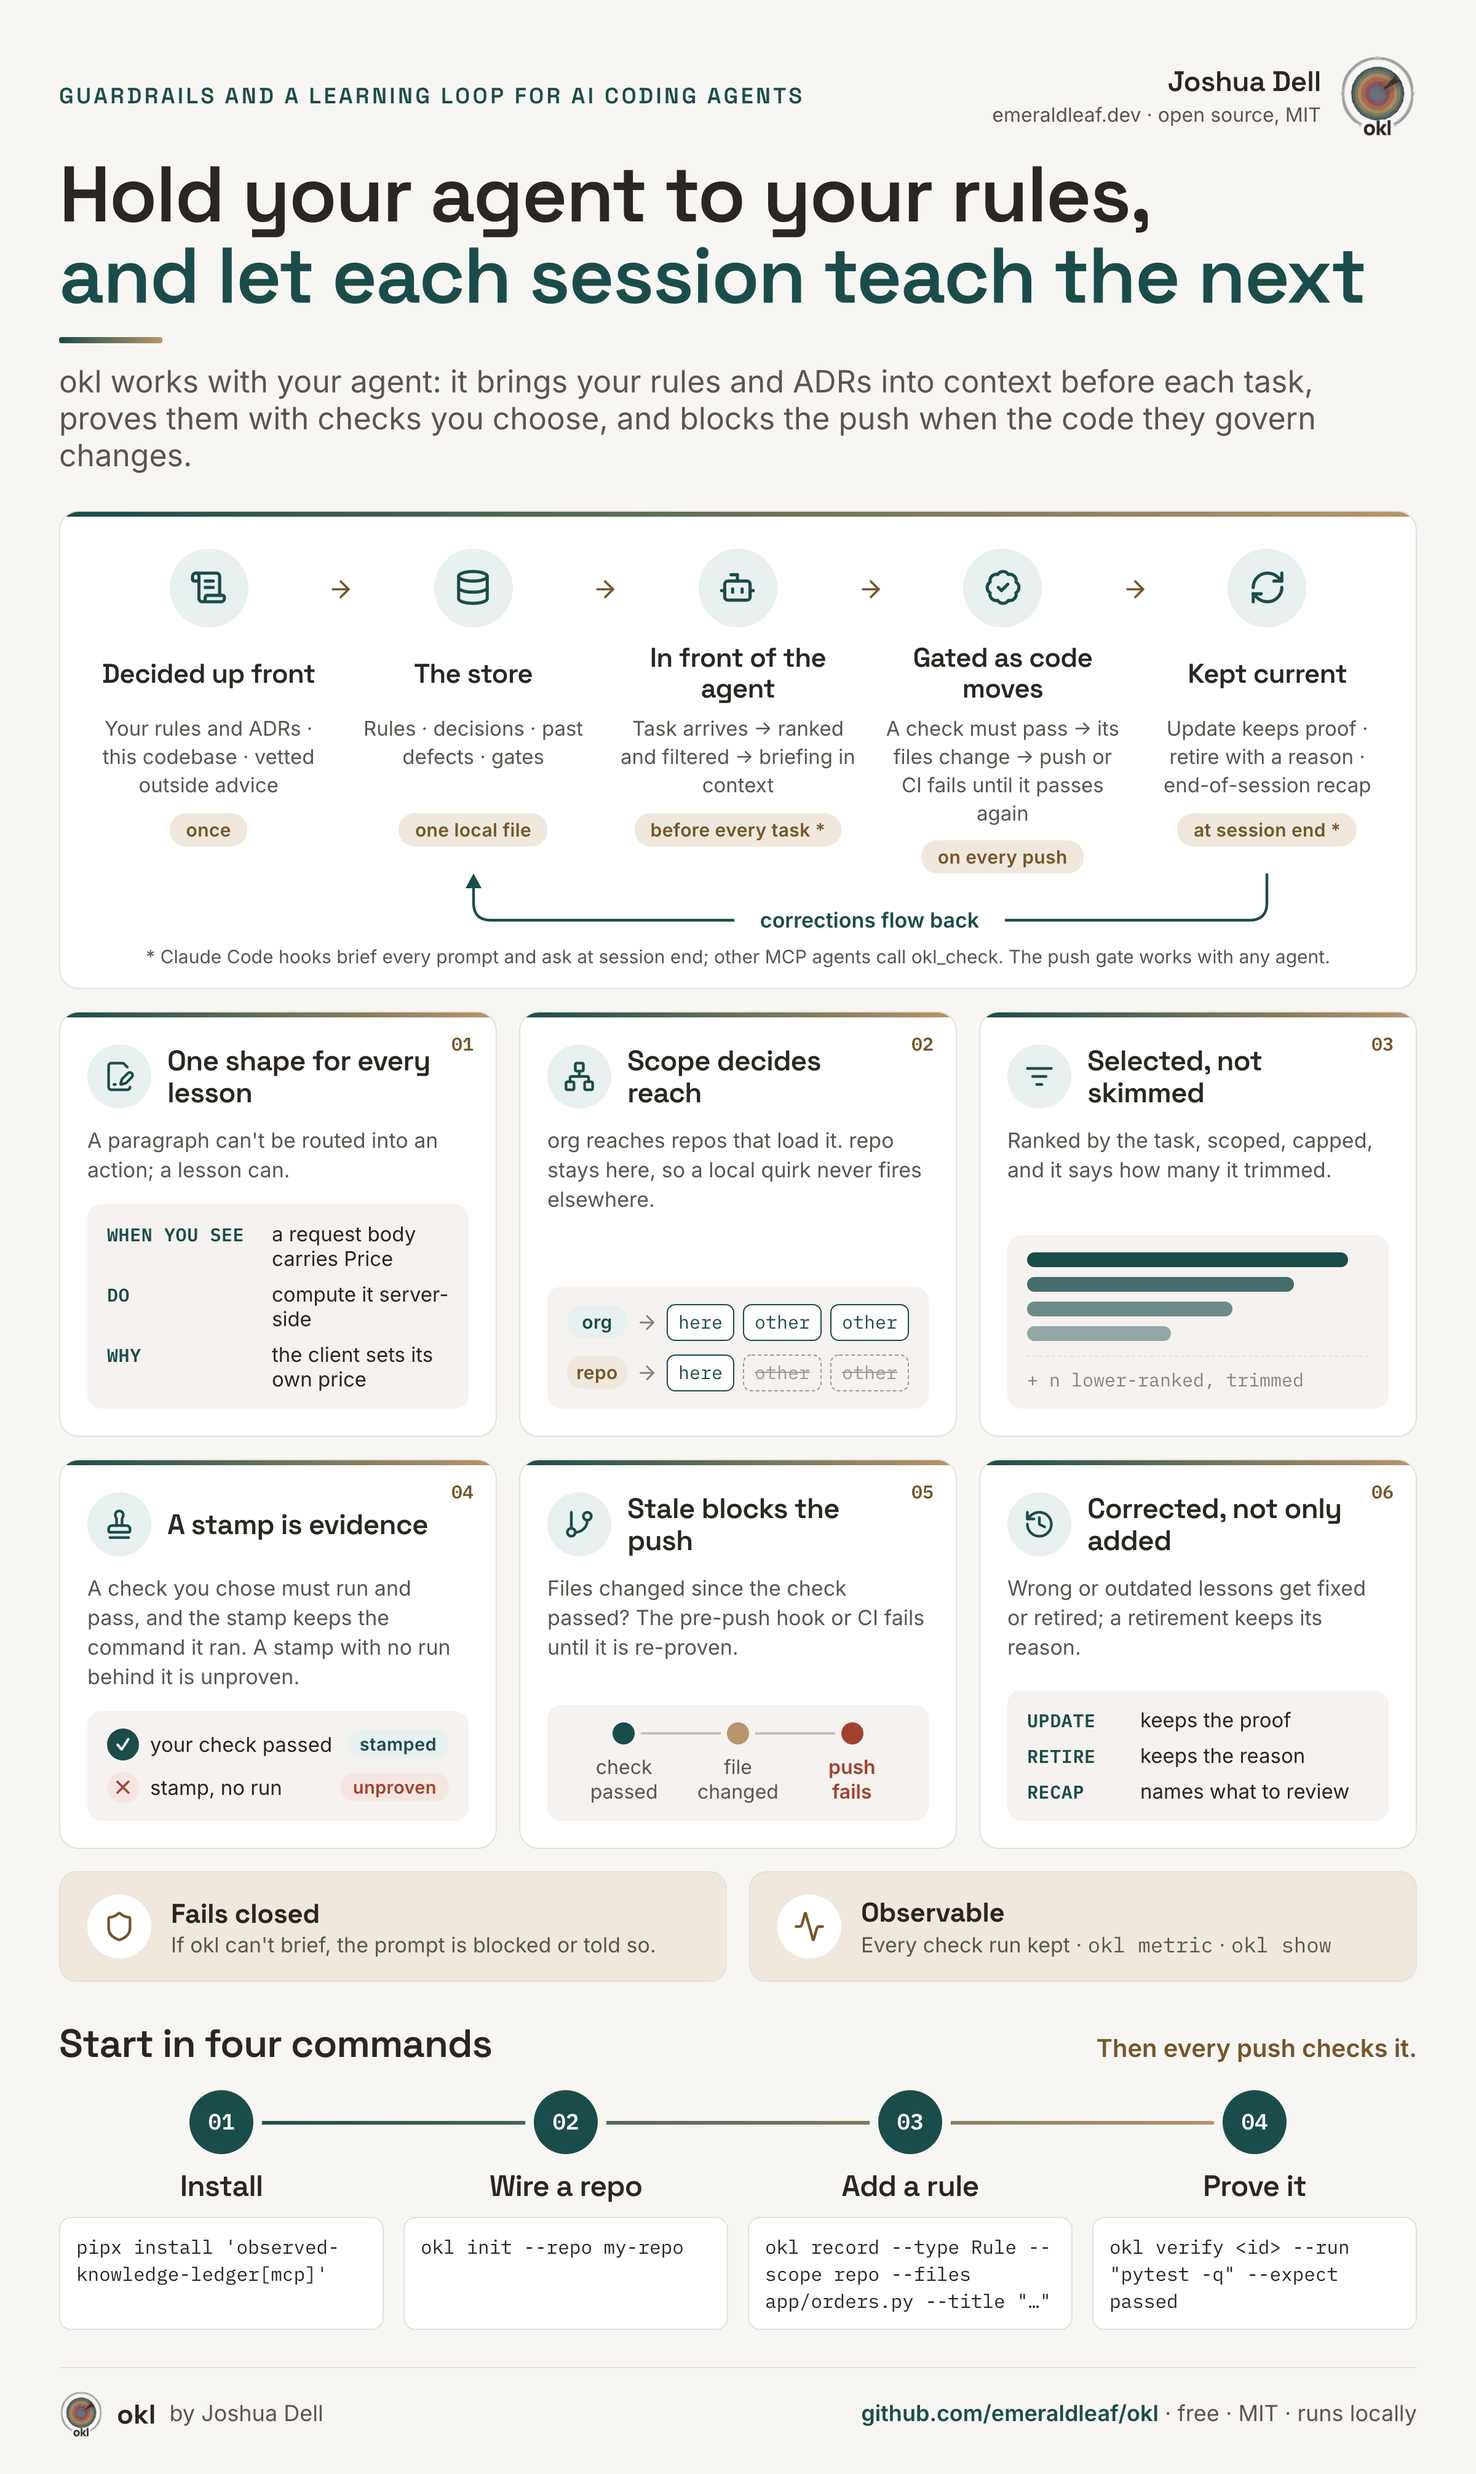
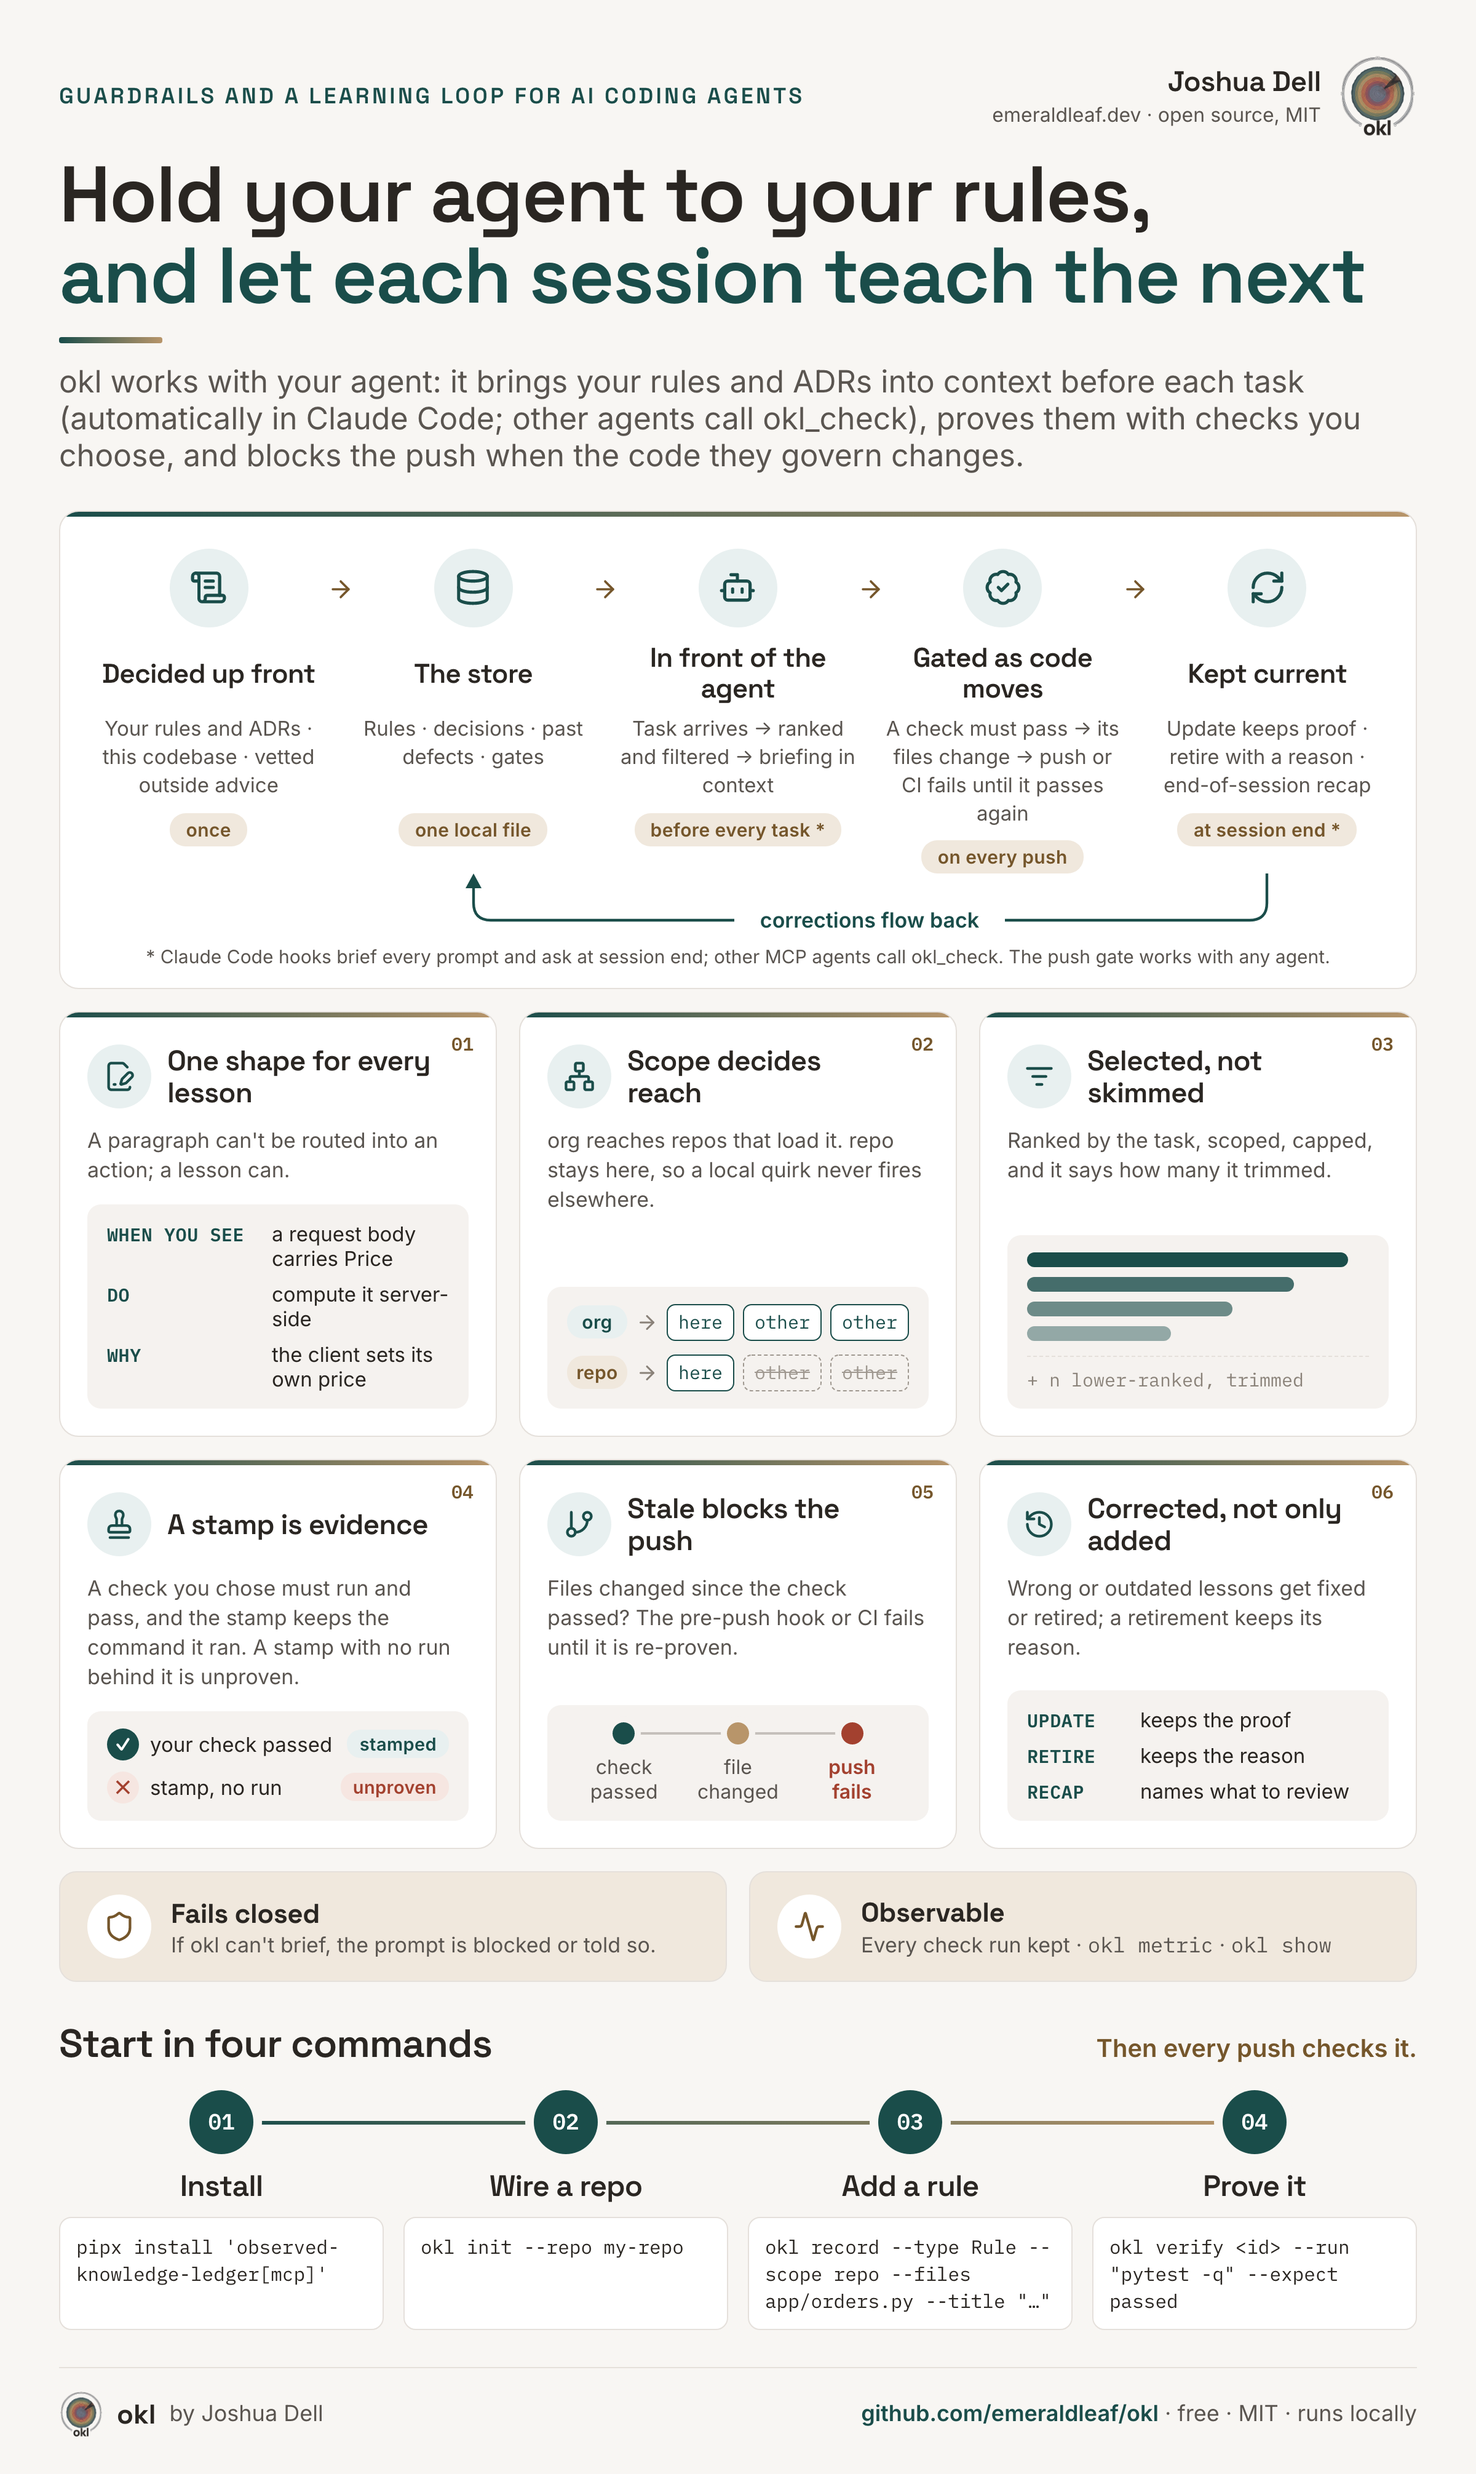
Review fixes: §4j's plan-only sample, and who is briefed automatically
- The twelve-run pool counted §4j's plan-only sample, which §4j itself counts as
  unevaluable (the receipt scores it clean; the harness fix is #164). The pooling now
  skips it and any row marked unevaluable, and REPORT §5 finding 7 reads 16 of 281.
  The eight-run figure the posts quote has no such sample and does not change.
- The overview's subtitle says the briefing before each task is automatic in Claude
  Code and that other agents call okl_check.

Changed region(s): [[0.0625, 0.1554, 0.9062, 0.1865]]

diff --git a/docs/overview/okl-overview.html b/docs/overview/okl-overview.html
@@ -191,7 +191,7 @@ h1::after { content: ''; position: absolute; left: 0; bottom: 0; width: 84px; he
       </div>
     </div>
     <h1>Hold your agent to your rules,<br><span class="hl">and let each session teach the next</span></h1>
-    <p class="sub">okl works with your agent: it brings your rules and ADRs into context before each task, proves them with checks you choose, and blocks the push when the code they govern changes.</p>
+    <p class="sub">okl works with your agent: it brings your rules and ADRs into context before each task (automatically in Claude Code; other agents call okl_check), proves them with checks you choose, and blocks the push when the code they govern changes.</p>
   </header>
 
   <section class="card loop">

diff --git a/tests/test_docs.py b/tests/test_docs.py
@@ -184,11 +184,18 @@ POOLED_RECEIPTS = ["ab-20260830-0003", "ab-20260901-0133", "ab-20260901-1238", "
                    "ab-20260903-0157", "ab-20260903-1214", "ab-20260903-1323", "ab-20260926-0528"]
 
 
+# REPORT §4j counts this sample as unevaluable: the generator returned a plan, not code, and
+# the receipt, written before the harness could say so (#164), scores it clean.
+PLAN_ONLY = {("ab-20261010-2314", "idor_endpoint", "briefed", 1)}
+
+
 def _pool(names):
     """Unbriefed hits/n and briefed hits/n over the named receipts' judged samples."""
     out = [0, 0, 0, 0]
     for name in names:
         for row in json.loads((ROOT / "evals" / "results" / f"{name}.json").read_text())["results"]:
+            if row.get("unevaluable") or (name, row["task"], row["arm"], row.get("sample")) in PLAN_ONLY:
+                continue
             i = 0 if row["arm"] == "baseline" else 2
             out[i] += bool(row["reproduced"]); out[i + 1] += 1
     return out

diff --git a/evals/REPORT.md b/evals/REPORT.md
@@ -1137,7 +1137,8 @@ briefings are byte-identical and this result stands for the shipped code.
    not the documented instrument) and every run from §4j on, because each of those
    started a new series (§4j's unbriefed arm moved 26 points with nothing changed; §4k
    and §4m changed the instrument). Pooling all twelve comparable receipts, those
-   included, reads 102 of 280 (36%) against 16 of 282 (6%). Read it with §6: one-shot
+   included, reads 102 of 280 (36%) against 16 of 281 (6%), leaving out §4j's plan-only
+   sample as §4j itself does. Read it with §6: one-shot
    code on bait tasks written to invite defects the store already knew about, a small
    n, and nothing about code quality improving over time.
 
